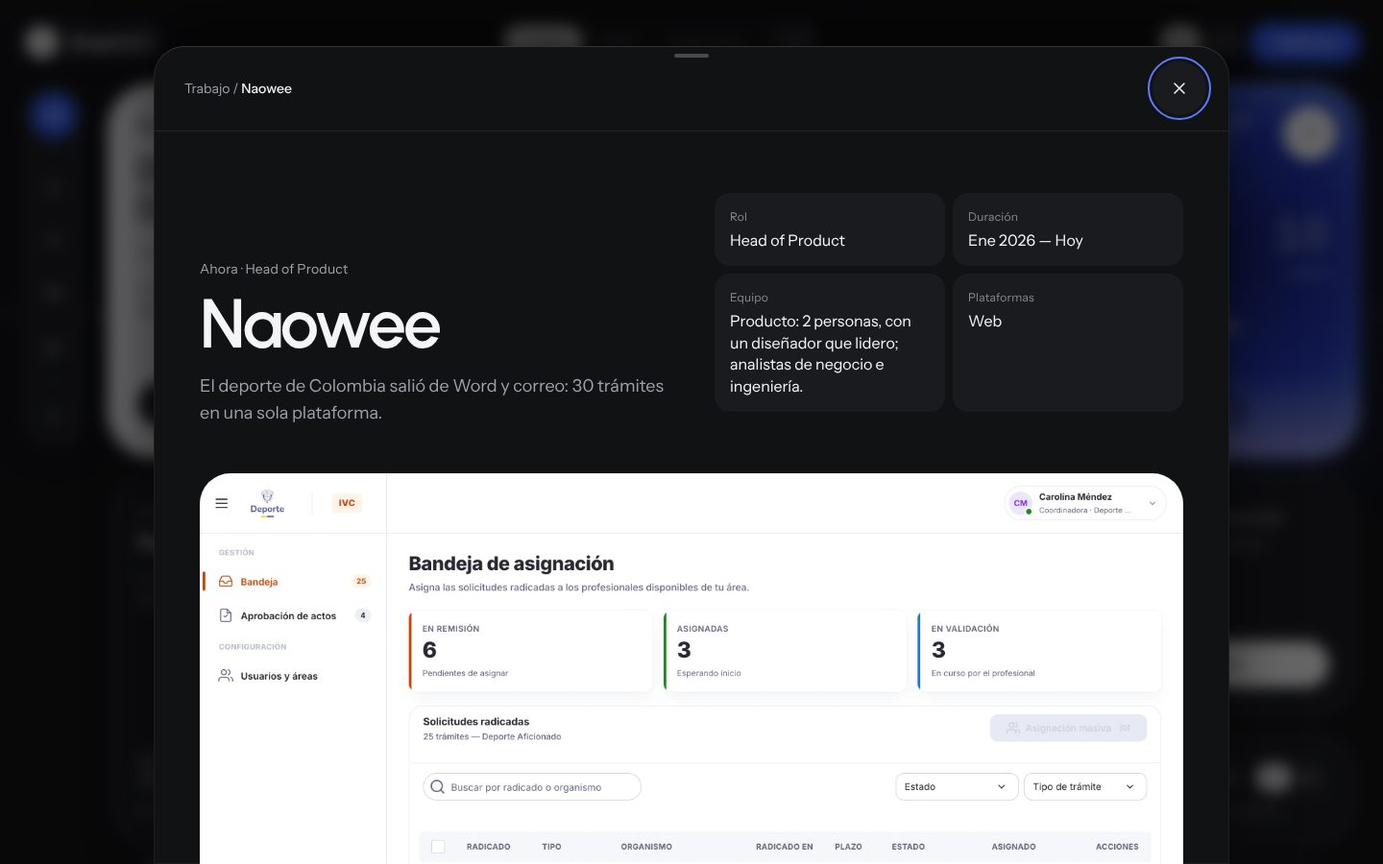
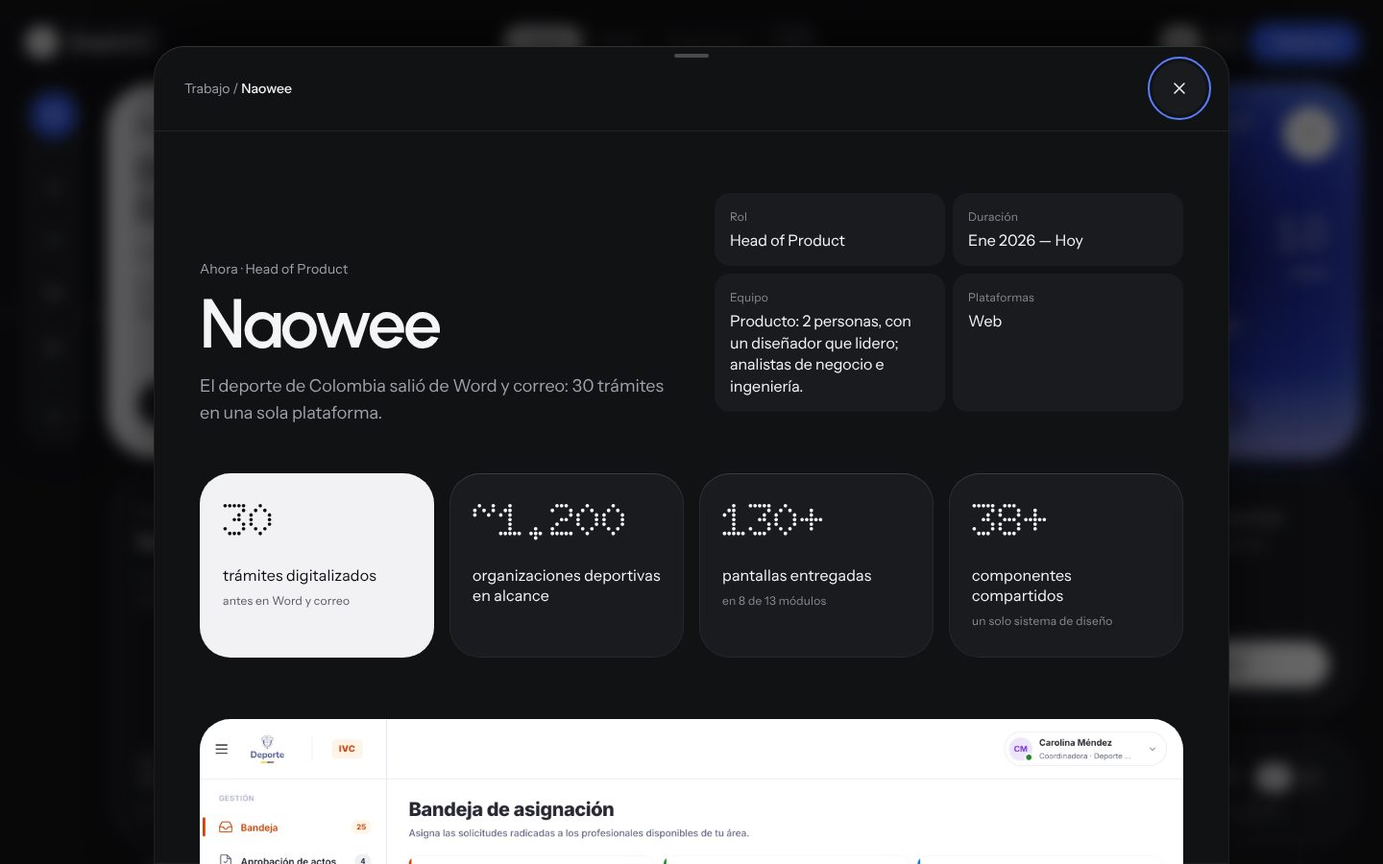
docs(rediseno): propuesta B «Cine → OS» (maqueta, notas y capturas)
Claude-Session: https://claude.ai/code/session_0115FVoACEbMEVHhAnRs4Nt5

diff --git a/docs/rediseno-2026/propuestas/B/index.html b/docs/rediseno-2026/propuestas/B/index.html
@@ -51,10 +51,10 @@
   --tinta: #F5F5F7; --tinta-2: #A1A1AB; --tinta-3: #8A8A95; --tinta-osc: #0E0E12; --tinta-osc-2: #55555F;
   /* color · acentos. Materiales (rellenos): azul y magenta. Luz (solo línea, nunca relleno ni texto): láser. */
   --electrico: #2B56F3; --electrico-texto: #5B7CFF; --resplandor: #361976;
-  --azul-etiqueta: #9DB4F5; --magenta-etiqueta: #F0B8D6;
+  --azul-etiqueta: #E3EAFF; --magenta-etiqueta: #F0B8D6; --magenta-etiqueta-base: #FCE6F1;
   --laser: #FF3344; --laser-nucleo: #FFE4E6; --laser-halo: rgba(255, 51, 68, .45);
   --verde: #3FD68C;      /* punto de disponibilidad (gráfico, siempre con texto al lado) */
-  --verde-osc: #12804A;  /* «647 pruebas en verde» de olbo, sobre losa niebla (4,73:1) */
+  --verde-osc: #0E6B3D;  /* «647 pruebas en verde» de olbo, sobre losa niebla (5,14:1) */
   --vidrio-oscuro: linear-gradient(90deg, rgba(58, 59, 63, .86) 0%, rgba(18, 19, 20, .82) 18% 82%, rgba(58, 59, 63, .86) 100%);
   --vidrio-plano: rgba(17, 18, 20, .78);
   --foco: var(--electrico-texto);
@@ -225,7 +225,7 @@ main { position: relative; z-index: 1; }
   --gx: 60%; --gr: 0px;
   -webkit-mask-image: linear-gradient(90deg, #000 0, #000 calc(var(--gx) - var(--gr)), transparent calc(var(--gx) - var(--gr) * .55), transparent calc(var(--gx) + var(--gr) * .55), #000 calc(var(--gx) + var(--gr)), #000 100%);
   mask-image: linear-gradient(90deg, #000 0, #000 calc(var(--gx) - var(--gr)), transparent calc(var(--gx) - var(--gr) * .55), transparent calc(var(--gx) + var(--gr) * .55), #000 calc(var(--gx) + var(--gr)), #000 100%); }
-.nombre-xl { position: absolute; z-index: 4; left: var(--e-24); top: calc(41svh - 2 * .92 * var(--t-120) - var(--e-16)); transform-origin: 0 0; pointer-events: none; display: none;
+.nombre-xl { position: absolute; z-index: 2; left: var(--e-24); top: calc(41svh - 2 * .92 * var(--t-120) - var(--e-16)); transform-origin: 0 0; pointer-events: none; display: none;
   font: 600 var(--t-120)/.92 var(--f-display); letter-spacing: -0.045em; color: var(--tinta); }
 .nombre-xl .linea { display: block; overflow: hidden; padding-bottom: .06em; margin-bottom: -.06em; }
 .nombre-xl .linea > span { display: block; }
@@ -281,7 +281,8 @@ html:not(.cine) .velo, html:not(.cine) .laser { display: none; }
   background: linear-gradient(to top, #A84D86 0%, transparent 26%), radial-gradient(110% 90% at 48% 45%, #2A0D2C 0%, #5E1640 40%, #8E1F55 70%, #B4407E 100%); }
 .losa-azul .t-losa, .losa-magenta .t-losa { color: var(--blanco); }
 .losa-azul .etiqueta { color: var(--azul-etiqueta); }
-.losa-magenta .etiqueta, .losa-magenta .apoyo { color: var(--magenta-etiqueta); }
+.losa-magenta .apoyo { color: var(--magenta-etiqueta); }
+.losa-magenta .etiqueta { color: var(--magenta-etiqueta-base); }
 .losa-azul .ceja, .losa-magenta .ceja { color: var(--blanco); }
 .enlace-tarjeta::after { content: ""; position: absolute; inset: 0; z-index: 1; border-radius: inherit; }
 .enlace-tarjeta:focus-visible { outline: none; }
@@ -329,8 +330,6 @@ html:not(.cine) .velo, html:not(.cine) .laser { display: none; }
 .k1-nombre { font: 600 var(--t-30)/.92 var(--f-display); letter-spacing: -0.03em; color: var(--tinta); }
 .k1-nombre span { display: block; }
 .k1-nombre .k1-rol { font: 400 var(--t-14)/1.3 var(--f-texto); letter-spacing: .01em; color: var(--tinta-2); margin-top: var(--e-12); }
-.cine .k1-nombre .xl-hueco { visibility: hidden; }
-.cine .k1-nombre.listo .xl-hueco { visibility: visible; }
 .cine .os-top > .tarjeta:not(.k2), .cine .rail { opacity: 0; }
 .cine .rail { transform: translateX(calc(-1 * var(--os-izq))); }
 .escena.oculta .os-top > .tarjeta:not(.k2) { pointer-events: none; }
@@ -359,6 +358,7 @@ html:not(.cine) .velo, html:not(.cine) .laser { display: none; }
 .k6-fila { display: flex; align-items: center; justify-content: space-between; gap: var(--e-12); }
 .k6 .idioma { height: 36px; background: var(--losa-alta); box-shadow: none; position: relative; z-index: 2; }
 .k6 .idioma a { height: 28px; min-width: 36px; }
+.reloj { white-space: nowrap; }
 .reloj .ampm { font: 500 var(--t-14)/1 var(--f-texto); color: var(--tinta-2); margin-left: var(--e-4); letter-spacing: 0; }
 
 /* K7 · olbo */
@@ -366,7 +366,7 @@ html:not(.cine) .velo, html:not(.cine) .laser { display: none; }
 .k7-texto { max-width: 52%; display: grid; gap: var(--e-8); }
 .k7 .cifra { position: relative; z-index: 1; max-width: 50%; }
 .k7 .dot { color: var(--verde-osc); }
-.k7 .telefono { position: absolute; z-index: 0; right: var(--e-32); bottom: calc(-1 * var(--e-48)); width: 44%; aspect-ratio: 3 / 4; height: auto;
+.k7 .telefono { position: absolute; z-index: 0; right: var(--e-32); bottom: calc(-1 * var(--e-64)); width: 54%; aspect-ratio: 3 / 4; height: auto;
   border-radius: var(--r-s); box-shadow: 0 24px 48px -16px rgba(14, 14, 18, .45); }
 .k7 .telefono img { object-position: 50% 0; }
 .k7 .flecha { z-index: 2; }
@@ -480,7 +480,7 @@ html:not(.cine) .velo, html:not(.cine) .laser { display: none; }
 .ficha div { padding: var(--e-16); border-radius: var(--r-xs); background: var(--losa-alta); display: grid; gap: var(--e-4); align-content: start; }
 .ficha dt { font-size: var(--t-12); letter-spacing: .02em; color: var(--tinta-3); }
 .ficha dd { margin: 0; font-size: var(--t-16); line-height: 1.4; color: var(--tinta); }
-.hoja-media { margin-top: var(--e-48); border-radius: var(--r-m); overflow: hidden; aspect-ratio: 16 / 9; background: var(--losa-alta); box-shadow: inset 0 0 0 1px var(--losa-borde); }
+.hoja-media { margin-top: var(--e-64); border-radius: var(--r-m); overflow: hidden; aspect-ratio: 16 / 9; background: var(--losa-alta); box-shadow: inset 0 0 0 1px var(--losa-borde); }
 .hoja-media img { width: 100%; height: 100%; object-fit: cover; object-position: 0 0; }
 .tablero { display: grid; grid-template-columns: repeat(4, minmax(0, 1fr)); gap: var(--gap); margin-top: var(--e-48); }
 .kpi { padding: var(--e-24); border-radius: var(--r-m); background: var(--losa-alta); display: grid; gap: var(--e-8); align-content: start; min-height: 192px; box-shadow: var(--filo); }
@@ -543,17 +543,22 @@ html:not(.cine) .velo, html:not(.cine) .laser { display: none; }
   .carrusel-ctrl .botones { display: flex; gap: var(--e-8); }
   .carrusel-ctrl .circulo { width: var(--toque); height: var(--toque); }
   .k7 .telefono { width: 46%; right: var(--e-24); }
+  .k7-texto { max-width: none; }
+  .k7 .apoyo { max-width: 60%; }
+  .linea-tiempo { grid-template-columns: repeat(4, auto); justify-content: space-between; gap: var(--e-12); }
+  .nodo span:not(.dot) { display: none; }
+  .nodo b { font-size: var(--t-12); }
+  .k13 .retrato img { object-position: 50% 0%; }
   .k7 { min-height: 400px; }
   .k8 .media { height: 150px; margin: calc(var(--e-12) - var(--e-24)) calc(var(--e-12) - var(--e-24)) 0; }
   .k9 { grid-template-columns: 1fr; grid-template-rows: 150px auto; }
   .k9 .media { order: -1; margin: calc(var(--e-12) - var(--e-24)) calc(var(--e-12) - var(--e-24)) 0; }
   .k11 { gap: var(--e-24); }
-  .linea-tiempo { grid-template-columns: repeat(4, minmax(0, 1fr)); }
   .nodo.solo-desk { display: none; }
   .nodo .dot-s { font-size: var(--t-20); }
   .k12 { gap: var(--e-24); }
   .k12 .dot-l { font-size: var(--t-36); }
-  .k13 { min-height: 360px; }
+  .k13 { min-height: 460px; }
   .k13-texto { padding: var(--e-24); }
   .k14 { gap: var(--e-24); }
   .k15 { gap: var(--e-24); }
@@ -942,7 +947,7 @@ html.rm .hoja.abierta .hoja-panel { opacity: 1; }
   </footer>
 </main>
 
-<nav class="dock" id="dock" aria-label="Navegación rápida" data-ta="dock.label">
+<nav class="dock escondido" id="dock" aria-label="Navegación rápida" data-ta="dock.label">
   <a href="#trabajo" data-sec="trabajo"><svg class="ico" aria-hidden="true"><use href="#i-trabajo"/></svg><span data-t="nav.trabajo">Trabajo</span></a>
   <a href="#perfil" data-sec="perfil"><svg class="ico" aria-hidden="true"><use href="#i-perfil"/></svg><span data-t="nav.perfil">Perfil</span></a>
   <a href="/cv"><svg class="ico" aria-hidden="true"><use href="#i-cv"/></svg><span>CV</span></a>
@@ -973,7 +978,6 @@ html.rm .hoja.abierta .hoja-panel { opacity: 1; }
           <div><dt data-t="c.plataformas">Plataformas</dt><dd>Web</dd></div>
         </dl>
       </div>
-      <figure class="hoja-media"><img src="../../../../public/work/naowee/ivc-bandeja.webp" alt="Bandeja de trámites de inspección, vigilancia y control en la plataforma de Naowee." data-talt="c1.alt" width="2880" height="1800" loading="lazy" decoding="async"></figure>
       <section aria-labelledby="hImpacto">
         <h3 class="sr-only" id="hImpacto" data-t="c.impacto">Impacto</h3>
         <ul class="tablero">
@@ -983,6 +987,7 @@ html.rm .hoja.abierta .hoja-panel { opacity: 1; }
           <li class="kpi"><span class="dot dot-l" style="--i:3">38+</span><span class="etiqueta" data-t="c1.k4">componentes compartidos</span><span class="micro" data-t="c1.k4n">un solo sistema de diseño</span></li>
         </ul>
       </section>
+      <figure class="hoja-media"><img src="../../../../public/work/naowee/ivc-bandeja.webp" alt="Bandeja de trámites de inspección, vigilancia y control en la plataforma de Naowee." data-talt="c1.alt" width="2880" height="1800" loading="lazy" decoding="async"></figure>
       <section class="problema" aria-labelledby="hProblema">
         <div>
           <p class="ceja" data-t="c.problema">Problema</p>
@@ -1189,7 +1194,7 @@ html.rm .hoja.abierta .hoja-panel { opacity: 1; }
       w: G.isDesk ? lerp(64, 30, q) : lerp(40, 30, q),
       str: lerp(0.62, 0.55, q) + 0.30 * hump,
       phase: p * 140,
-      lensR: G.isDesk ? lerp(190, 120, q) : 120,
+      lensR: G.isDesk ? lerp(240, 150, q) : 150,
       lineY: pl.Oy + IMG.eye * pl.Dy, lineH: 0.012 * pl.Dy,
       face: [pl.Ox + IMG.face[0] * pl.Dx, pl.Oy + IMG.face[1] * pl.Dy, IMG.face[2] * pl.Dx, IMG.face[3] * pl.Dy],
     };
@@ -1219,7 +1224,7 @@ html.rm .hoja.abierta .hoja-panel { opacity: 1; }
     float k = floor(u / uW), t = fract(u / uW), s = 2.0 * t - 1.0;
     float face = 1.0 - smoothstep(0.78, 1.1, length((p - uFace.xy) / uFace.zw));
     float md = length(p - uMouse);
-    float lens = exp(-md * md / (2.0 * uLensR * uLensR)) * uLens;
+    float lens = (1.0 - smoothstep(uLensR * 0.5, uLensR * 1.2, md)) * uLens;
     float str = uStr * (1.0 - 0.68 * face) * (1.0 - lens);
     float disp = str * uW * (s * 0.75 + 0.45 * s * s * s + (hash(k) - 0.5) * 0.4);
     float band = uLineH > 0.0 ? 1.0 - smoothstep(uLineH, uLineH * 2.4, abs(p.y - uLineY)) : 0.0;
@@ -1236,6 +1241,7 @@ html.rm .hoja.abierta .hoja-panel { opacity: 1; }
     float luma = dot(col, vec3(0.2126, 0.7152, 0.0722));
     col = mix(col, vec3(luma), 0.08 * str);
     col = col * (1.0 - 0.2 * str * s * s) + lip * g - col * crease * g;
+    col *= 1.0 + 0.06 * lens;
     o = vec4(col * a, a);
   }`;
   let gl = null, U = {}, glOn = false;
@@ -1341,7 +1347,10 @@ html.rm .hoja.abierta .hoja-panel { opacity: 1; }
   }
 
   function montarCine() {
-    if (!window.gsap || !window.ScrollTrigger) { root.classList.remove("cine"); cine = false; return; }
+    if (!window.gsap || !window.ScrollTrigger) {   // sin CDN: el tablero aparece armado, igual que con movimiento reducido
+      root.classList.remove("cine"); cine = false; esc.classList.remove("oculta");
+      if (desk.matches) S.p = 1; layout(); return;
+    }
     gsap.registerPlugin(ScrollTrigger);
     const mm = gsap.matchMedia();
     mm.add({ cine: "(min-width: 1024px) and (prefers-reduced-motion: no-preference)" }, (ctx) => {
@@ -1361,8 +1370,6 @@ html.rm .hoja.abierta .hoja-panel { opacity: 1; }
         onUpdate() {
           S.p = tl.progress(); kick();
           esc.classList.toggle("oculta", S.p < 0.98);
-          k1Nombre.classList.toggle("listo", S.p > 0.985);
-          nombreXL.style.visibility = S.p > 0.985 ? "hidden" : "visible";
         },
       });
       st = tl.scrollTrigger;
@@ -1372,7 +1379,9 @@ html.rm .hoja.abierta .hoja-panel { opacity: 1; }
         .fromTo(nombreXL, { x: 0, y: 0, scale: 1 }, { x: () => G.nx.x1 - G.nx.x0, y: () => G.nx.y1 - G.nx.y0, scale: () => G.nx.s1, ease: "power2.inOut", duration: 0.72 }, 0)
         .fromTo("#velo", { opacity: 1 }, { opacity: 0, duration: 0.4 }, 0)
         .fromTo(indicador, { opacity: 1 }, { opacity: 0, duration: 0.12 }, 0.8)
-        .fromTo(k1, { opacity: 0 }, { opacity: 1, duration: 0.16 }, 0.62)
+        .fromTo(k1, { opacity: 0 }, { opacity: 1, duration: 0.16 }, 0.6)
+        .fromTo(nombreXL, { opacity: 1 }, { opacity: 0, duration: 0.1, immediateRender: false }, 0.66)
+        .fromTo(".k1-nombre .xl-hueco", { opacity: 0 }, { opacity: 1, duration: 0.12 }, 0.68)
         .fromTo(".rail", { x: () => -112, opacity: 0 }, { x: 0, opacity: 1, ease: "power2.out", duration: 0.3 }, 0.5);
       tarjetasTop.forEach((el, i) => {
         tl.fromTo(el, { opacity: 0, scale: 0.94, y: 24, filter: "blur(8px)", "--dw": 100 },
@@ -1388,7 +1397,7 @@ html.rm .hoja.abierta .hoja-panel { opacity: 1; }
           .fromTo(k2, { opacity: 0, scale: 0.96, filter: "blur(12px)" }, { opacity: 1, scale: 1, filter: "blur(0px)", duration: 0.6, clearProps: "filter" }, 0.4)
           .fromTo(indicador, { opacity: 0 }, { opacity: 1, duration: 0.3, ease: "power1.out" }, 0.6);
       }
-      return () => { st = null; cine = false; root.classList.remove("cine"); S.p = 1; esc.classList.remove("oculta"); nombreXL.style.visibility = ""; k1Nombre.classList.add("listo"); layout(); };
+      return () => { st = null; cine = false; root.classList.remove("cine"); S.p = 1; esc.classList.remove("oculta"); gsap.set([nombreXL, ".k1-nombre .xl-hueco"], { clearProps: "opacity" }); layout(); };
     });
     document.fonts.ready.then(() => ScrollTrigger.refresh());
   }
@@ -1440,7 +1449,8 @@ html.rm .hoja.abierta .hoja-panel { opacity: 1; }
     });
   });
   let ultY = window.scrollY; const dock = $("#dock");
-  window.addEventListener("scroll", () => { const y = window.scrollY; dock.classList.toggle("escondido", y > ultY + 4 && y > 200); if (y < ultY - 4) dock.classList.remove("escondido"); ultY = y; }, { passive: true });
+  window.addEventListener("scroll", () => { const y = window.scrollY; const enHeroe = y < window.innerHeight * 0.5;   // en el héroe ya están los CTA: el dock aparece al salir de él
+    dock.classList.toggle("escondido", enHeroe); ultY = y; }, { passive: true });
 
   /* ═════════════ 9 · Hoja de caso (dialog modal: foco atrapado, Esc, Atrás, arrastre) ═════════════ */
   const hoja = $("#hoja"), panel = $("#hojaPanel"), cuerpo = $("#hojaCuerpo"), cab = $("#hojaCab");
@@ -1482,8 +1492,8 @@ html.rm .hoja.abierta .hoja-panel { opacity: 1; }
 
   /* ═════════════ 10 · Arranque ═════════════ */
   setLang(root.lang === "en" ? "en" : "es", false);
-  if (RM) { root.classList.remove("cine"); S.p = 1; esc.classList.remove("oculta"); k1Nombre.classList.add("listo"); }
-  if (!root.classList.contains("cine")) { esc.classList.remove("oculta"); k1Nombre.classList.add("listo"); }
+  if (RM) { root.classList.remove("cine"); S.p = 1; esc.classList.remove("oculta"); }
+  if (!root.classList.contains("cine")) esc.classList.remove("oculta");
   const arrancar = () => {
     layout();
     if (!RM) montarCine();

diff --git a/docs/rediseno-2026/propuestas/B/NOTAS.md b/docs/rediseno-2026/propuestas/B/NOTAS.md
@@ -1,0 +1,148 @@
+# Propuesta B · «Cine → Sistema operativo»
+
+**Concepto en una frase:** la línea láser que cruza los ojos de Doug es el hilo del sitio: corta el retrato a pantalla
+completa, lo encoge hasta volverlo una losa y se queda cosiendo el tablero.
+
+Archivo: `index.html` (autocontenido; fuentes en `../fonts/`; GSAP 3.12.5 y ScrollTrigger desde cdnjs). Hay que servirlo
+con un servidor estático (`npx http-server .` desde la raíz del repo, y abrir `/docs/rediseno-2026/propuestas/B/`).
+Con `file://`, Chrome no deja subir la foto a WebGL y se ve el respaldo CSS. Parámetros de prueba: `?lang=en`, `?rm=1`
+(simula movimiento reducido) y `?captura=1` (sin snap y sin entrada).
+
+**Cambio de Doug aplicado (4–5 nov):** la máscara y su revelado se quitaron del todo. No hay botón, ni pista, ni copy de
+«quitar la máscara». El cursor solo abre y aclara el vidrio. El título de K13 («Doug, sin máscara») dependía de esa
+narrativa, así que se cambió por la frase de apoyo de la misma card en 04-COPY: «Diseñador de producto que construye.»
+Hay que confirmarlo con el writer.
+
+---
+
+## 1. Decisiones de dirección
+
+| Decisión | Por qué |
+|---|---|
+| **Acto 1 = la cara, y además el test de 5 s.** El primer pliegue trae el nombre en display (120 px), el H1 (04 §2.1 A), la línea de nivel, Mercadolibre, la disponibilidad y dos CTA (Ver casos · Descargar CV). Todo va en el panel K2, de vidrio oscuro, que monta sobre la chaqueta. | Responde a la crítica central de 02 §8: B fallaba el test de 5 s si el acto 1 era solo cara y nombre. |
+| **El claim es K2 y cambia de material.** El panel del acto 1 es la misma losa K2 del OS: viaja a su celda y pasa de vidrio oscuro a losa blanca con una sola variable (`--m`, de 0 a 1, `color-mix`). | Continuidad real: no hay dos copias del H1, y la losa blanca (el respiro de 01 §2.4) nace de la transición. |
+| **El nombre XL aterriza en la losa del retrato.** «Doug / Vargas» pasa de 120 px a 30 px por FLIP (translate + scale) hasta el panel de K1, como el «Bank Account» de ref-3. | El nombre y la cara se encogen juntos: la marca se vuelve parte del sistema. |
+| **El vidrio estriado es parte de la transición.** De 12° oblicuo a 0° vertical, de 64 px a 30 px por franja, y la fuerza sube a mitad del viaje (las franjas «se cierran») y baja al llegar. | Disimula la baja resolución mientras la foto se reescala y termina en el vidrio vertical de ref-2 y ref-3. |
+| **Rojo láser = luz, nunca material.** El rojo solo aparece como línea de 1 px con halo: el haz de la foto, el hilo del tablero, el indicador de scroll, el progreso de la hoja y el nodo «hoy» del timeline. Nunca es relleno, texto ni botón. | Así convive con el azul eléctrico y el magenta, que son **materiales** (rellenos jelly y la acción principal). Al tener un papel distinto no compite con ellos, y por eso no se lee gamer. El vidrio de 1 px no cuenta como neón. |
+| **El hilo del tablero.** En el OS, la línea queda a la altura de los ojos de la losa K1 y pasa por detrás de las losas. Solo se ve en las calles de 16 px, en el margen y sobre la foto. | Es como un haz que atraviesa un rack. Es sutil y solo se nota en un segundo vistazo. |
+| **Pills = dónde estoy, rail = qué hago.** Arriba, las pills de secciones (Trabajo · Perfil · Experiencia · CV) siguen el scroll (activa = pill blanca). A la izquierda, el rail es de acciones (Escríbeme en azul eléctrico, CV, LinkedIn, Behance, GitHub, Volver arriba) y no navega. | 02 §8 critica que «el dock lateral duplica el header». Aquí cada uno tiene un trabajo distinto. |
+| **Spotlight de grupo.** Al tocar una pill o un CTA, el tablero baja a 60 % las losas de otros grupos durante 1,4 s (con un velo en `::before`, sin tocar la opacidad que maneja GSAP). | Es el «filtra o resalta» del OS de 02 §8, sin un estado de filtro que haya que recordar quitar. |
+| **Los casos se abren en hoja** (Naowee implementado), con URL real (`#/work/naowee-suid` en la maqueta; en Next sería una ruta interceptada `@modal/(.)work/[slug]`). Con cmd, ctrl o clic medio se abre la página completa en otra pestaña. | Resuelve «abrir en pestañas para comparar». |
+| **Tipografía.** Urbanist (display, 600), Instrument Sans (texto y UI, 400 y 500) y Doto (ROND 100, wght 700) solo para cifras, fechas y el reloj, nunca por debajo de 20 px. | 01 §4.3, par A. |
+| **Proporción.** En el OS, una losa clara por bloque (K2, K7 niebla, K12, K15, K17), una sola azul (K4) y una sola magenta (K10). | 01 §2.2 y §2.4. |
+
+### Rejilla
+- **Escritorio (≥ 1024):** cabecera de 88 px (24 + pill de 40 + 24) y rail de 64 px (la rejilla empieza en x = 112).
+  12 columnas, calle de 16 px y `--fila` = la sexta parte del pliegue útil, entre 96 y 128 px. Las seis primeras filas son
+  el OS armado y caben justas en el viewport. Orden del DOM: K2, K1, K3, K4, K5, K6, K7… Es el orden visual de izquierda
+  a derecha y de arriba abajo, sin `order` ni `dense`. K2 va antes que K1 para que el H1 sea lo primero que se lee.
+- **Móvil (< 1024): el OS se vuelve app.** El héroe es la foto a sangre (100 svh) con K2 encima, abajo. Después vienen las
+  secciones con título («Trabajo», «Experiencia», «Perfil», «Contacto», los mismos rótulos de la nav), un carrusel con
+  scroll-snap para K7–K10 con contador y botones, el dock inferior (Trabajo · Perfil · CV · Contacto, que aparece al salir
+  del héroe, donde ya están los CTA) y las hojas desde abajo con arrastre para cerrar.
+
+---
+
+## 2. Motion
+
+| Qué | Cómo | Duración y curva |
+|---|---|---|
+| **Entrada al cargar** (una vez, solo en el acto 1) | Los ítems de la barra se materializan (opacidad, y −8 px, blur 8 → 0), con 40 ms de escalonado. Las dos líneas del nombre suben con una máscara (yPercent 105 → 0), con 80 ms de escalonado. El láser se enciende desde la cara hacia afuera (scaleX 0 → 1 con origen en la cara). K2 se materializa (opacidad, escala .96 → 1, blur 12 → 0). | Arranca a los 120 ms. Barra 360 ms; nombre 600 ms `expo.out` (≈ `--ease-out`); láser 700 ms `power3.inOut`; K2 600 ms. Todo termina antes de 1,1 s y el escalonado total es < 600 ms. El LCP (póster) no se anima. |
+| **Scroll anclado** (acto 2) | `ScrollTrigger` con pin en la escena, recorrido de **1 viewport** y `scrub: 0.6`. Snap a 0 o a 1 solo después de 120 ms de inactividad (direccional, 250–600 ms, `power2.inOut`). | Timeline de 0 a 1 (abajo). |
+| — Foto | El rectángulo pasa de pantalla completa a la celda de K1 (radio 0 → 48). Se reencuadra con cover y foco en la cara. | 0 → 0,72, cúbica in-out. |
+| — Vidrio | Ángulo 12° → 0°, franja 64 → 30 px, fuerza .62 → .55 más una joroba de +.30 a mitad (`sin π·t`), fase +140 px. | Ligado a la foto. |
+| — K2 | Viaja de abajo a la izquierda a su celda (x, y) y cambia de material (`--m` 0 → 1). El blur sube a 2 px y vuelve durante el cambio, para tapar el cruce de colores (emil · blur). | Viaje 0 → 0,6 `power2.inOut`; material 0,30 → 0,52. |
+| — Nombre XL | FLIP hasta el panel de K1 (escala 0,25). Pasa por detrás de K2 (capas) y al final se cruza con el nombre real. | 0 → 0,72; fundido 0,66 → 0,8. |
+| — Losas | Opacidad, escala .94 → 1, y 24 → 0, blur 8 → 0, y las cifras Doto «se encienden» (`--dw` 100 → 700). Entran como una onda radial desde K1: el retraso es proporcional a la distancia al centro de K1. | Cada una dura 0,3, y empiezan entre 0,2 y 0,62. `power2.out`. |
+| — Rail | Entra desde la izquierda (x −112 → 0). | 0,5 → 0,8. |
+| — Velo izquierdo e indicador | El velo se va (0 → 0,4). El indicador (un track de 1 px que se llena de rojo) se apaga al final. | — |
+| **Cursor → vidrio** | Una lente sigue al puntero con muelles X/Y independientes, críticamente amortiguados (respuesta 0,35 s, sub-pasos de 1/240 s). Dentro de un disco de radio 0,5R a 1,2R la fuerza del vidrio va a 0, los filos de luz y sombra desaparecen y la imagen se aclara un 6 %. R es 240 px en el acto 1 y 150 px en la losa. La lente nace bajo el cursor (no viaja desde una esquina). | Entra con una exponencial de k = 7 (≈ 140 ms) y sale con k = 4 (≈ 250 ms). |
+| **Táctil** | Al arrastrar sobre la foto, la lente sigue al dedo 1:1, sin inercia. `touch-action: pan-y`: el arrastre vertical sigue siendo scroll. Al entrar hay una deriva leve de fase que se asienta sola en menos de 9 s (WCAG 2.2.2). | — |
+| **Hover / foco / pressed** | Hover (solo con puntero fino): la losa sube 2 px (`translate`), la media escala a 1,03, la flecha gira 45° y Doto pasa a peso 900. Foco: anillo de 2 px en `--electrico-texto` con 3 px de offset y el radio de la losa (`:has(:focus-visible)`). Pressed: losa a escala .98 y botones a .97. | 200 ms hover, 120 ms press, `--ease-out`. Se usan `translate` y `scale` (propiedades individuales) para no chocar con el `transform` de GSAP. |
+| **Hoja** | Sube desde abajo con el velo (blur 8). Las cifras se encienden (`--dw` 100 → 700, 60 ms de escalonado). Cierra con Esc, con la X, al tocar el velo, con Atrás o arrastrando la cabecera (más de 120 px o más de 0,5 px/ms; banda elástica hacia arriba). Una línea láser de progreso acompaña el scroll interno. | Entra 420 ms `--ease-drawer`, sale 280 ms. |
+| **Reduced motion** | Sin ancla, sin entrada, sin lente y sin deriva: el tablero aparece armado desde el primer píxel (K2 ya blanca y la foto ya en su losa). La hoja hace un fundido de 150 ms. | 150 ms lineal. |
+
+---
+
+## 3. Tokens (todos en `:root`)
+
+- **Color:** `--vacio #060608`, `--losa #111214`, `--losa-alta #1A1B1F`, `--claro #F2F2F4`, `--niebla #E4E2EC`;
+  textos `--tinta`, `--tinta-2`, `--tinta-3`, `--tinta-osc`, `--tinta-osc-2`. Acentos: `--electrico #2B56F3` (relleno),
+  `--electrico-texto #5B7CFF` (foco), `--laser #FF3344` y `--laser-nucleo #FFE4E6` (solo luz), `--verde-osc #0E6B3D`
+  (647 de olbo) y `--verde` (punto de estado). Etiquetas tintadas: `--azul-etiqueta #E3EAFF`, `--magenta-etiqueta`,
+  `--magenta-etiqueta-base`.
+- **Espacio:** 4 · 8 · 12 · 16 · 24 · 32 · 48 · 64 · 96 · 128. **Tipo:** 12 · 14 · 16 · 18 · 20 · 24 · 30 · 36 · 48 · 72 · 120.
+- **Radios:** losa 48/36, M 32/28, S 24/20, XS 16, pill 999. Los anidados son concéntricos (radio de la losa − inset).
+- **Sombras:** el bloom azul y el magenta (del color de la losa), `--sombra-flota` (lo que flota sobre la foto), `--sombra-hoja`
+  y los filos internos `--filo` y `--filo-jelly`. Sin sombras grises genéricas.
+- **Motion:** `--ease-out (.23,1,.32,1)`, `--ease-in-out (.77,0,.175,1)`, `--ease-drawer (.32,.72,0,1)`; duraciones
+  `--d-press 120`, `--d-hover 200`, `--d-ui 240`, `--d-hoja 420`, `--d-hoja-salida 280`, `--d-entrada 600`.
+- **Opacidades:** .05 · .1 · .2 · .4 · .6 · .8. **Toques:** `--toque 44`, `--boton-s 48`, `--boton 56`.
+
+**Contraste medido sobre las capturas** (los píxeles de fondo, en el peor punto):
+
+| Par | Resultado |
+|---|---|
+| Nombre XL sobre la foto con velo | 12,1:1 |
+| Línea de nivel de K2 sobre vidrio oscuro | 6,6:1 |
+| Rol del panel de K1 | 5,4:1 |
+| Blanco sobre K4 en la zona de títulos | ≥ 5,9:1 |
+| Chip NDA | 11,9:1 |
+| `--tinta-osc-2` sobre claro | 6,6:1 |
+| `--tinta-osc-2` sobre niebla | 5,8:1 |
+| 647 verde sobre niebla | 5,1:1 |
+| Foco sobre claro | 3,3:1 (no texto) |
+
+Dos colores se corrigieron después de medir: las etiquetas de K4 (`#9DB4F5` daba 2,7:1 sobre el aro, ahora `#E3EAFF`) y
+la etiqueta de K10 sobre la base lavanda (3,5:1, ahora `#FCE6F1`).
+
+---
+
+## 4. Cómo se resolvieron los riesgos de B (02 §8)
+
+| Riesgo | Solución |
+|---|---|
+| Falla el test de 5 s | Nombre, H1, nivel, Mercadolibre, disponibilidad y los dos CTA están en el acto 1, en el primer pliegue, a 1440 y a 390. |
+| Scroll secuestrado y largo | El ancla dura **un solo viewport** y la rueda siempre mueve la página (scrub). El snap solo actúa después de que el usuario suelta. «Ver casos», el skip link y Tab saltan directo al tablero armado. |
+| Teclado y lectores de pantalla | El DOM está completo y en orden desde el principio. Las losas «ocultas» usan opacidad (no `visibility`), así que siguen en el árbol accesible. Si el foco entra a una losa sin armar, la página salta al final del ancla. Mientras están invisibles no reciben clics (`pointer-events`). El H1 es texto real. Las cifras Doto son texto con `aria-label` en el grupo. |
+| Hoja modal | `<dialog>` con `showModal()` (foco atrapado y fondo inerte nativos), `overflow: clip` para que el foco no desplace el panel, foco inicial en Cerrar, Esc, Atrás y devolución del foco al enlace de origen. |
+| LCP | El LCP es el `<img>` del retrato con `preload` y `fetchpriority="high"`, sin animar. El WebGL se monta en `requestIdleCallback` y aparece con un fundido de 200 ms. Sin WebGL queda el póster con franjas CSS. Sin el CDN de GSAP, el tablero aparece armado (probado con el CDN bloqueado). En producción: póster AVIF con el vidrio horneado (01 §3.1). |
+| Baja resolución de la foto (880×1168) | A 1440×900 la foto se muestra a escala ≈ 1:1 (alto = 1,3 × viewport) y no se estira. El resto del ancho es el borde de la foto estirado, con mip borroso (bias de LOD) y oscurecido. El haz láser de la foto queda continuo de lado a lado. Las franjas y el blur de las estrías tapan el resto. |
+| Rendimiento | Un solo pase de shader. Fuera de la losa redondeada se descarta el píxel. DPR máximo 1,5. El bucle solo corre mientras algo cambia (scroll, muelle, deriva). |
+| Longitud en móvil | Sin ancla en móvil. Los cuatro casos de producto propio van en un solo carrusel y el timeline se reduce a 4 nodos. La página mide ≈ 5.600 px (≈ 6,6 pantallas a 844). Es medio pliegue más que la meta de 02, porque el héroe ocupa una pantalla. |
+| Se diseña dos veces | Es el mismo código con dos geometrías: en escritorio, el rectángulo de cine pasa a la celda de K1; en móvil, la foto a sangre pasa a una losa con inset 12 y radio 36 al hacer scroll (sin ancla). |
+
+---
+
+## 5. Qué quedó simulado o pendiente
+
+- **Foto provisional** `retratos-hf/199598aa.jpg`. La definitiva entra cambiando una sola línea
+  (`IMG = { w, h, eye, face }`: tamaño, altura de la línea láser y elipse de la cara en coordenadas 0–1).
+- **Solo el caso Naowee abre en hoja** (cabecera, ficha, tablero de 4 cifras, captura y problema). Las demás cards
+  enlazan a las rutas de producción (`/work/…`, `/about`, `/experience`, `/cv`), que no existen en la maqueta.
+- **Enlaces externos y PDF:** `/cv/doug-vargas-cv.pdf`, `/cv/carta` y los usuarios de LinkedIn y Behance son de relleno;
+  el GitHub sale del repo.
+- **Cifras** (12 años, 10 casos, 3 productos) escritas a mano. En producción son `{derivado}`.
+- **Microcopy que no está en 04-COPY** y hay que validar: «Cerrar» / «Close» (hoja) y «Anterior» / «Siguiente» con
+  «n de 4» (carrusel móvil); «Head of Product · Barranquilla» bajo el nombre de K1; el título nuevo de K13.
+  Se omitió el apoyo de K8 (la cita ya cuenta la historia y la card no admitía tres protagonistas).
+- **El retrato de K13** es `98153a04.jpg` (de la misma serie del láser), mostrado en tonos fríos.
+- En la maqueta, GSAP se pide a cdnjs. Para las capturas se sirvió la misma versión, 3.12.5 (bajada de npm), porque cdnjs
+  está bloqueado en este entorno.
+
+## 6. Capturas
+
+| Archivo | Qué muestra |
+|---|---|
+| `shot_B_1440_pliegue.jpg` | Acto 1 |
+| `shot_B_1440_scroll_25.jpg`, `_60`, `_100` | Fotogramas del ancla |
+| `shot_B_1440_os.jpg` | OS armado |
+| `shot_B_1440_hoja.jpg` | Caso Naowee abierto en hoja |
+| `shot_B_1440_cursor.jpg` | Vidrio abierto bajo el cursor |
+| `shot_B_1440_en.jpg`, `shot_B_1440_en_os.jpg` | Versión EN |
+| `shot_B_1440_completa_rm.jpg` | Tablero completo con movimiento reducido |
+| `shot_B_390_pliegue.jpg` | Móvil, primer pliegue |
+| `shot_B_390_completa.jpg` | Móvil, página completa |
+| `shot_B_390_hoja.jpg` | Móvil, hoja abierta |
+
+Todas a DPR 1, en JPG de calidad 82, con las fuentes reales cargadas (sin la de respaldo) y sin desborde horizontal.
